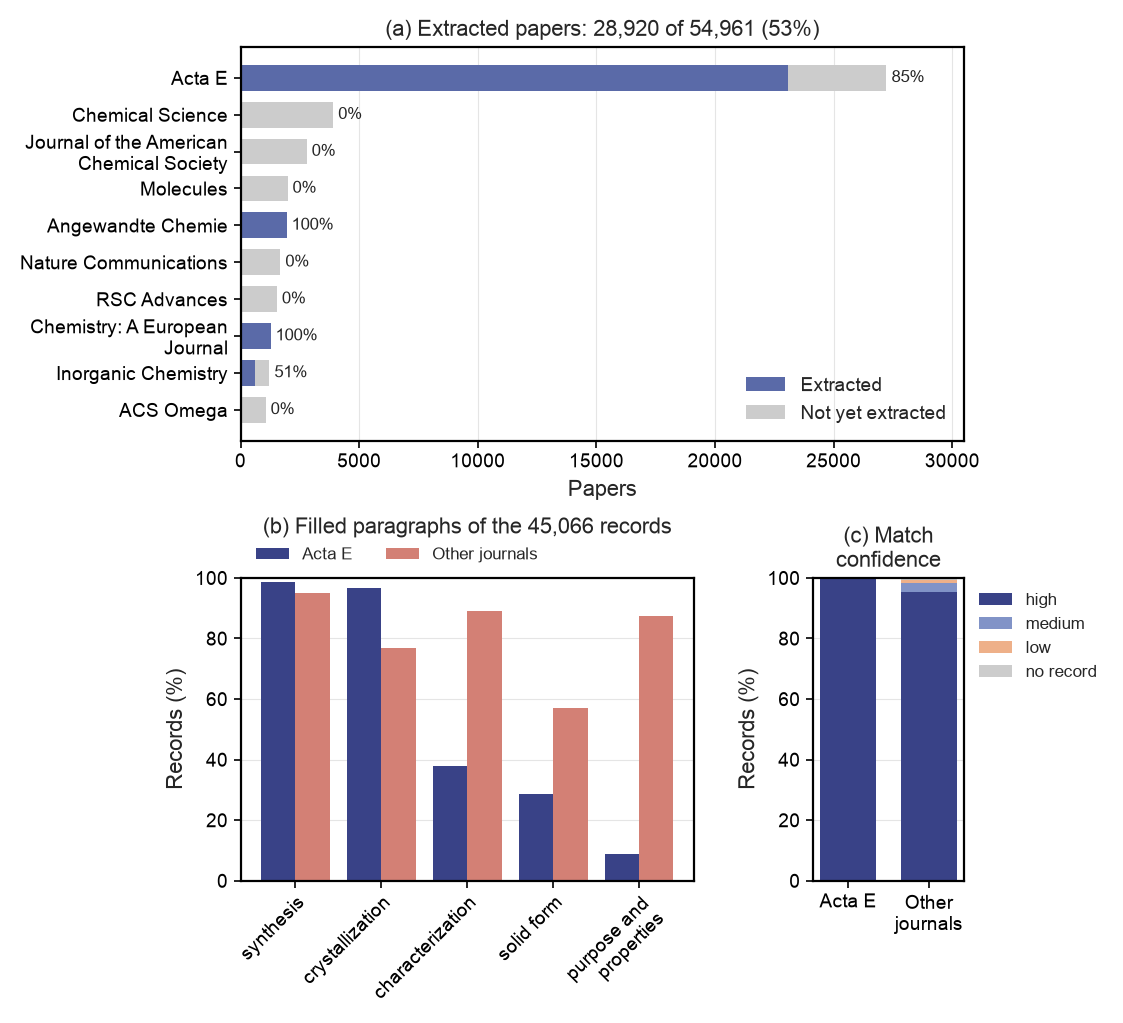
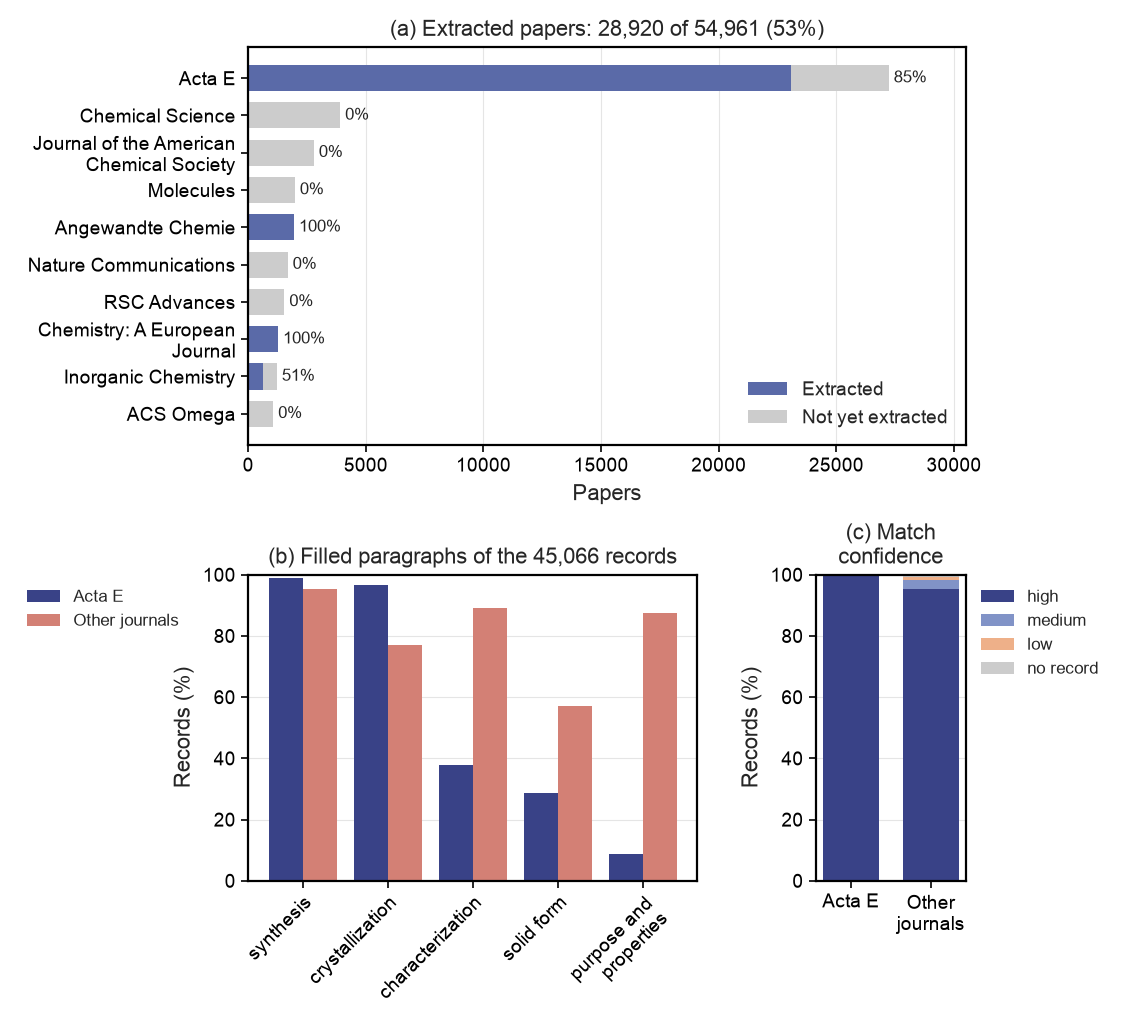
Size thumbnail atoms by element and add a Has CIF filter
Thumbnail atoms and bonds are now sized in Å, so drawings of two crystals compare at any zoom;
atoms other than carbon grow with their covalent radius and are drawn back to front. The
explorer gets a Has CIF button, on by default, that hides entries without a publisher CIF. The
README figures are regenerated, and the legend of Figure 1b moves to the left of its panel.

diff --git a/src/viz/templates/explore.html b/src/viz/templates/explore.html
@@ -9,9 +9,9 @@
        name="q"
        value="{{ q }}"
        placeholder="Search molecule, refcode, DOI, paper title or journal"
-       aria-label="Search entries"><select name="journal" aria-label="Journal"><option value="">All journals</option>{% for name, count in journals.items() %}<option value="{{ name }}" {% if journal==name %}selected{% endif %}>{{ name }} ({{ count }})</option>{% endfor %}</select><select name="status" aria-label="Extraction status"><option value="">All extraction statuses</option>{% for name in statuses %}<option value="{{ name }}" {% if status==name %}selected{% endif %}>{{ name|replace('_', ' ') }} ({{ statuses[name] }})</option>{% endfor %}</select><select name="sort" aria-label="Sort"><option value="refcode">Refcode A–Z</option><option value="year" {% if sort=='year' %}selected{% endif %}>Newest paper</option></select><button class="chip on" type="submit">Search</button><a class="chip reset" href="{{ root }}/explore">Reset</a></form>
+       aria-label="Search entries"><select name="journal" aria-label="Journal"><option value="">All journals</option>{% for name, count in journals.items() %}<option value="{{ name }}" {% if journal==name %}selected{% endif %}>{{ name }} ({{ count }})</option>{% endfor %}</select><select name="status" aria-label="Extraction status"><option value="">All extraction statuses</option>{% for name in statuses %}<option value="{{ name }}" {% if status==name %}selected{% endif %}>{{ name|replace('_', ' ') }} ({{ statuses[name] }})</option>{% endfor %}</select><select name="sort" aria-label="Sort"><option value="refcode">Refcode A–Z</option><option value="year" {% if sort=='year' %}selected{% endif %}>Newest paper</option></select><input type="hidden" name="cif" value="{{ cif }}"><button class="chip{% if cif %} on{% endif %}" type="button" data-cif>Has CIF</button><button class="chip on" type="submit">Search</button><a class="chip reset" href="{{ root }}/explore">Reset</a></form>
     <p class="results-line muted small">{{ "{:,}".format(total) }} matching entries · page {{ page }} of {{ pages }}</p>
-    <div class="tiles publisher-tiles">{% for e in entries %}<a class="tile publisher-card" href="{{ root }}/entry/{{ e.id }}" data-id="{{ e.id }}" data-year="{{ e.paper.year or 0 }}" data-status="{{ e.extraction.status }}" data-journal="{{ e.paper.journal }}" data-search="{{ (e.id ~ ' ' ~ e.doi ~ ' ' ~ e.name ~ ' ' ~ e.paper.title ~ ' ' ~ e.paper.journal)|lower }}"><div class="tile-cell">{% if e.paper.provenance.get("has_publisher_package", True) %}<img class="crystal-thumb"
+    <div class="tiles publisher-tiles">{% for e in entries %}{% set has_cif = e.paper.provenance.get("has_publisher_package", True) %}<a class="tile publisher-card" href="{{ root }}/entry/{{ e.id }}" data-id="{{ e.id }}" data-year="{{ e.paper.year or 0 }}" data-status="{{ e.extraction.status }}" data-journal="{{ e.paper.journal }}" data-cif="{{ 1 if has_cif else 0 }}" data-search="{{ (e.id ~ ' ' ~ e.doi ~ ' ' ~ e.name ~ ' ' ~ e.paper.title ~ ' ' ~ e.paper.journal)|lower }}"><div class="tile-cell">{% if has_cif %}<img class="crystal-thumb"
      src="{{ root }}/api/publisher-thumbnail/{{ e.pmcid }}.svg"
      alt="Publisher crystal preview for {{ e.id }}"
      loading="lazy">{% else %}<span class="no-cif-preview">{{ e.id }}<small>No publisher CIF</small></span>{% endif %}</div><div class="card-meta"><strong>{{ e.id }}</strong><span class="status-pill {{ e.extraction.status }}">{{ e.extraction.status|replace('_', ' ') }}</span></div><span class="tile-name">{{ e.name }}</span><span class="tile-fact muted">{{ e.paper.journal }} · {{ e.paper.year or 'Year unknown' }}</span><span class="tile-fact doi">{{ e.doi }}</span><span class="card-link">View paper & crystal →</span></a>{% endfor %}</div>

diff --git a/src/viz/static/explore.js b/src/viz/static/explore.js
@@ -1,6 +1,11 @@
 // The server searches and paginates. The static export renders every entry on this page and
 // marks the form with `data-static`, so the search runs here instead.
 const form = document.querySelector("form.tools");
+const hasCif = form.querySelector("[data-cif]");
+hasCif.addEventListener("click", () => {
+  form.cif.value = form.cif.value === "1" ? "0" : "1";
+  form.requestSubmit();
+});
 if (form.hasAttribute("data-static")) {
   const tiles = [...document.querySelectorAll(".tile")];
   const grid = tiles[0]?.parentElement;
@@ -13,7 +18,8 @@ if (form.hasAttribute("data-static")) {
       (t) =>
         words.every((w) => t.dataset.search.includes(w)) &&
         (!status || t.dataset.status === status) &&
-        (!journal || t.dataset.journal === journal),
+        (!journal || t.dataset.journal === journal) &&
+        (form.cif.value === "0" || t.dataset.cif === "1"),
     );
     const byId = (a, b) => a.dataset.id.localeCompare(b.dataset.id);
     if (form.sort.value === "year")
@@ -26,10 +32,13 @@ if (form.hasAttribute("data-static")) {
     }
     line.textContent = `${shown.length.toLocaleString()} matching entries`;
     empty.hidden = shown.length > 0;
+    hasCif.classList.toggle("on", form.cif.value === "1");
   };
   const params = new URLSearchParams(location.search);
   for (const k of ["q", "journal", "status", "sort"])
     if (params.has(k)) form[k].value = params.get(k);
+  // The page is exported with every entry (cif=0), but the filter is on by default.
+  form.cif.value = params.get("cif") ?? "1";
   form.addEventListener("submit", (e) => {
     e.preventDefault();
     history.replaceState(null, "", "?" + new URLSearchParams(new FormData(form)));

diff --git a/src/viz/crystal.py b/src/viz/crystal.py
@@ -22,7 +22,7 @@ UNIT_CUBE_EDGES = np.asarray(
     ]
 )  # (12, 2, 3)
 
-# Covalent radii (Å) for the bonds of the thumbnails; the fallback covers the rest.
+# Covalent radii (Å) for the bonds and atom sizes of the thumbnails; the fallback covers the rest.
 RADII = {
     "H": 0.31, "B": 0.84, "C": 0.76, "N": 0.71, "O": 0.66, "F": 0.57, "Si": 1.11, "P": 1.07,
     "S": 1.05, "Cl": 1.02, "Br": 1.20, "I": 1.39, "Na": 1.66, "K": 2.03, "Ca": 1.76,
@@ -176,8 +176,9 @@ VIEW = np.asarray(
 def draw_cell(cif: str, size: int = 240, ink: str = "#111111") -> str:
     """Draws the filled unit cell as a flat one-colour SVG: cell edges, bonds and heavy atoms.
 
-    Hydrogens are left out and carbons are small dots, so the drawing stays legible at thumbnail
-    size and reads as a specimen on a coloured tile.
+    Hydrogens are left out and carbons are smaller dots, so the drawing stays legible at thumbnail
+    size and reads as a specimen on a coloured tile. Other atoms grow with their covalent radius,
+    so metals and halogens stand out, from a floor that keeps the colours of N, O and F legible.
     """
     elems, frac, lattice, _ = parse_structure(cif)
     heavy = [i for i, e in enumerate(elems) if e != "H"]
@@ -205,14 +206,21 @@ def draw_cell(cif: str, size: int = 240, ink: str = "#111111") -> str:
         out.append(
             f'<path d="M{cxy[k, 0]:.1f} {cxy[k, 1]:.1f}L{cxy[k + 1, 0]:.1f} {cxy[k + 1, 1]:.1f}"/>'
         )
-    out.append(f'</g><g stroke="{ink}" stroke-width="1.3" stroke-linecap="round" opacity="0.85">')
+
+    # Bonds and atoms are sized in Å, so that two drawings compare at any zoom.
+    out.append(
+        f'</g><g stroke="{ink}" stroke-width="{0.12 * scale:.2f}" stroke-linecap="round"'
+        ' opacity="0.85">'
+    )
     for a, b in zip(i, j, strict=True):
         out.append(f'<path d="M{xy[a, 0]:.1f} {xy[a, 1]:.1f}L{xy[b, 0]:.1f} {xy[b, 1]:.1f}"/>')
+
+    # Back to front, so that nearer atoms cover farther ones.
     out.append("</g><g>")
-    for k in range(len(xy)):
-        r = 1.6 if elems[k] == "C" else 3.2
+    for k in np.argsort(cart[:, 2]):
+        r = scale * (0.23 if elems[k] == "C" else 0.3 * max(1.0, radii[k] / RADII["C"]))
         fill = ELEMENT_COLOURS.get(elems[k], OTHER_COLOUR)
-        out.append(f'<circle cx="{xy[k, 0]:.1f}" cy="{xy[k, 1]:.1f}" r="{r}" fill="{fill}"/>')
+        out.append(f'<circle cx="{xy[k, 0]:.1f}" cy="{xy[k, 1]:.1f}" r="{r:.1f}" fill="{fill}"/>')
     out.append("</g></svg>")
     return "".join(out)
 

diff --git a/src/viz/app.py b/src/viz/app.py
@@ -269,6 +269,7 @@ def explore(
     sort: str = "refcode",
     page: int = 1,
     journal: str = "",
+    cif: int = 1,
 ):
     words = q.casefold().split()
     found = [
@@ -277,6 +278,7 @@ def explore(
         if all(w in SEARCH[e["id"]] for w in words)
         and (not status or e["extraction"]["status"] == status)
         and (not journal or e["paper"]["journal"] == journal)
+        and (not cif or e["paper"]["provenance"].get("has_publisher_package", True))
     ]
     if sort == "year":
         found.sort(key=lambda e: (e["paper"]["year"] or 0, e["id"]), reverse=True)
@@ -286,7 +288,7 @@ def explore(
 
     def link(n):
         return "/explore?" + urlencode(
-            {"q": q, "status": status, "sort": sort, "page": n, "journal": journal}
+            {"q": q, "status": status, "sort": sort, "page": n, "journal": journal, "cif": cif}
         )
 
     return templates.TemplateResponse(
@@ -305,6 +307,7 @@ def explore(
             "next": link(page + 1) if page < pages else None,
             "statuses": SNAPSHOT["extraction_statuses"],
             "journal": journal,
+            "cif": cif,
             "journals": SNAPSHOT.get("journals", {}),
         },
     )

diff --git a/scripts/analysis/s0_extraction_plots.py b/scripts/analysis/s0_extraction_plots.py
@@ -117,8 +117,8 @@ def main(
     ax.set_xticks(x, list(FIELDS.values()))
     ax.set_ylim(0, 100)
     ax.set_ylabel("Records (%)")
-    ax.set_title(f"(b) Filled paragraphs of the {len(ext):,} records", pad=16)
-    ax.legend(fontsize=6, loc="lower left", bbox_to_anchor=(0, 1), ncols=2, frameon=False)
+    ax.set_title(f"(b) Filled paragraphs of the {len(ext):,} records")
+    ax.legend(fontsize=6, loc="upper right", bbox_to_anchor=(-0.12, 1))
 
     ax = axes["confidence"]
     bottom = np.zeros(len(RUNS))

diff --git a/scripts/runs/viz/s3_site.py b/scripts/runs/viz/s3_site.py
@@ -93,7 +93,8 @@ def main():
         return body
 
     save("/", out / "index.html")
-    save("/explore", out / "explore" / "index.html")
+    # Every entry goes on the page; `explore.js` applies the "Has CIF" filter by default.
+    save("/explore?cif=0", out / "explore" / "index.html")
     save("/crystal-frame.html", out / "crystal-frame.html")
     (out / "404.html").write_text(
         "<!doctype html><meta charset=utf-8><title>Not found</title>"

diff --git a/src/viz/publisher_assets.py b/src/viz/publisher_assets.py
@@ -318,7 +318,7 @@ def _thumbnail(pmcid):
         raise ValueError("No publisher CIF available")
     asset = data["cifs"][0]
     asset_file(pmcid, asset["cache_name"])
-    dest = CACHE / pmcid / (asset["sha256"] + "-main-preview-v1.svg")
+    dest = CACHE / pmcid / (asset["sha256"] + "-main-preview-v5.svg")
     if not dest.exists():
         models = cif_models(pmcid, asset["cache_name"])
         with MODEL_LIMIT:
